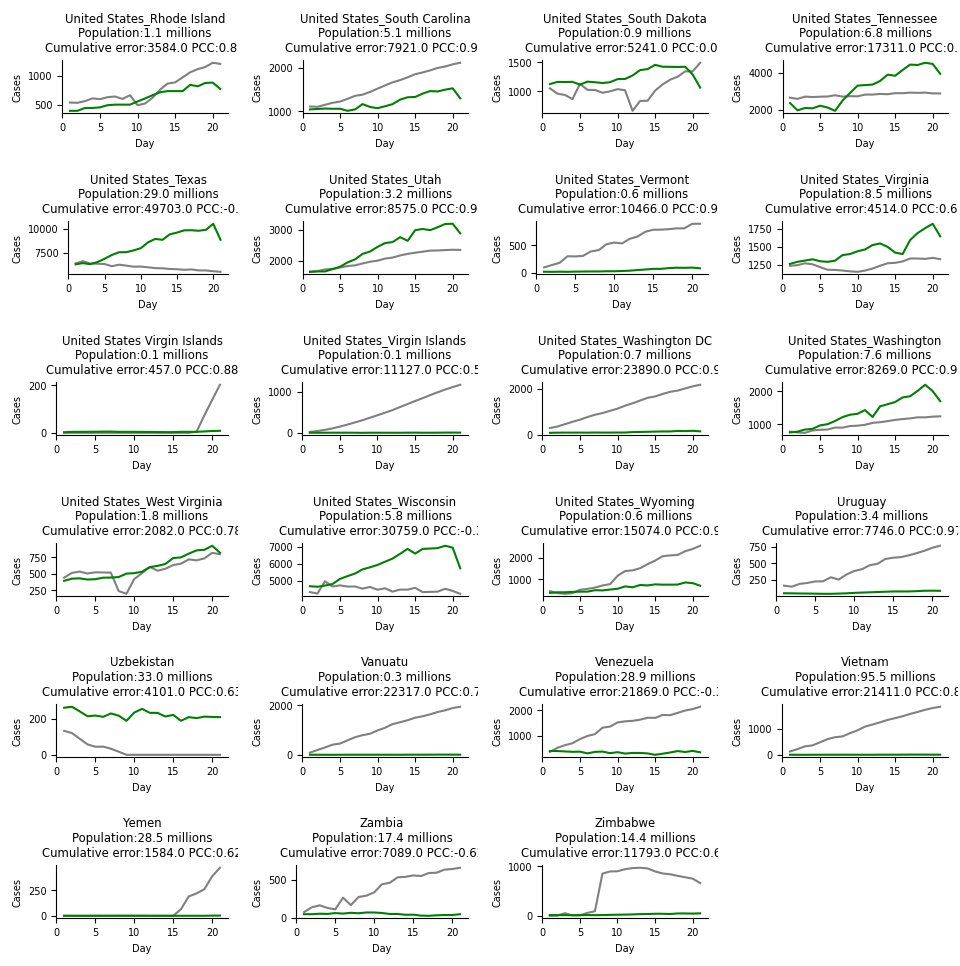
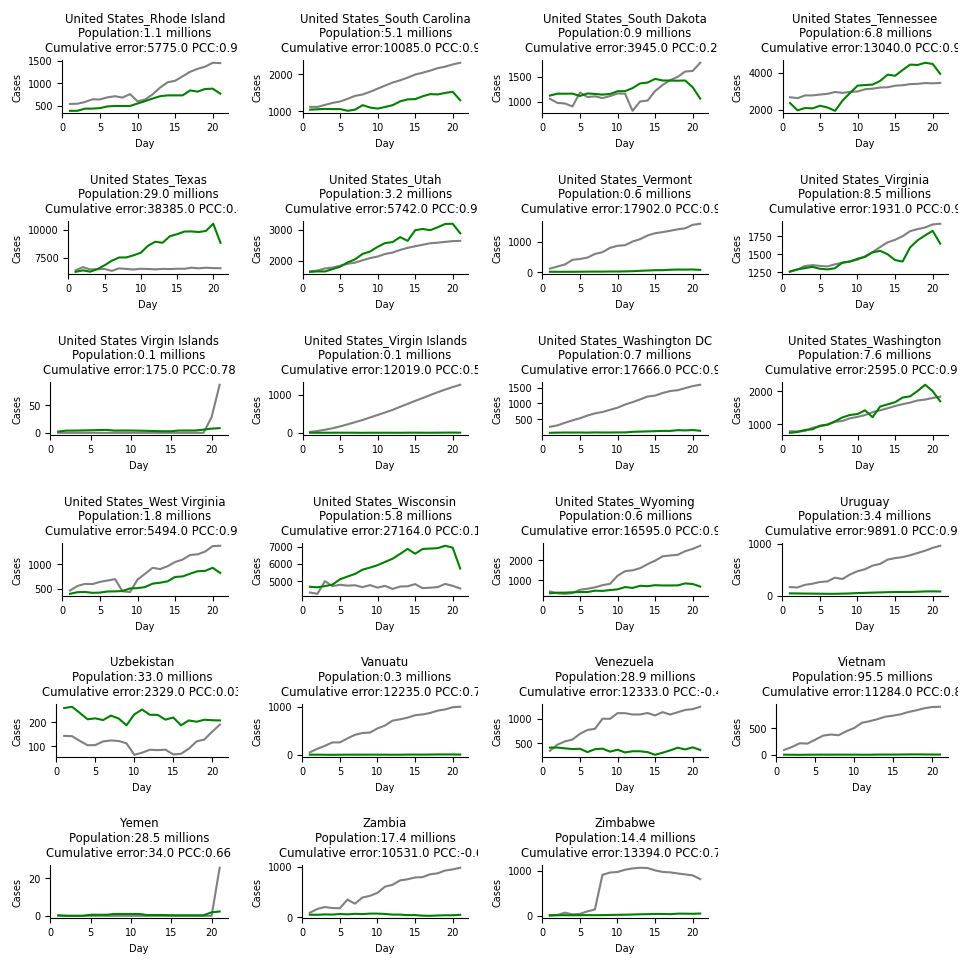
eval

diff --git a/docs/_site/Oxford_Evaluation.html b/docs/_site/Oxford_Evaluation.html
@@ -131,6 +131,18 @@
 <img src="/COVID19.github.io/assets/zen/zen-8.png" alt="zen8" />
 <img src="/COVID19.github.io/assets/zen/zen-9.png" alt="zen9" /></p>
 
+<h1 id="theil-sen-regression-per-100-000-population">Theil-Sen regression per 100 000 population</h1>
+<p><img src="/COVID19.github.io/assets/zen/zen_100000-0.png" alt="zen0" />
+<img src="/COVID19.github.io/assets/zen/zen_100000-1.png" alt="zen1" />
+<img src="/COVID19.github.io/assets/zen/zen_100000-2.png" alt="zen2" />
+<img src="/COVID19.github.io/assets/zen/zen_100000-3.png" alt="zen3" />
+<img src="/COVID19.github.io/assets/zen/zen_100000-4.png" alt="zen4" />
+<img src="/COVID19.github.io/assets/zen/zen_100000-5.png" alt="zen5" />
+<img src="/COVID19.github.io/assets/zen/zen_100000-6.png" alt="zen6" />
+<img src="/COVID19.github.io/assets/zen/zen_100000-7.png" alt="zen7" />
+<img src="/COVID19.github.io/assets/zen/zen_100000-8.png" alt="zen8" />
+<img src="/COVID19.github.io/assets/zen/zen_100000-9.png" alt="zen9" /></p>
+
   </div>
 
 </article>

diff --git a/docs/Oxford_Evaluation.md b/docs/Oxford_Evaluation.md
@@ -3,39 +3,17 @@ layout: page
 title: Oxford Evaluation
 ---
 
-# Simple least squares linear regression
-![lr0](./assets/linear/lr-0.png)
-![lr1](./assets/linear/lr-1.png)
-![lr2](./assets/linear/lr-2.png)
-![lr3](./assets/linear/lr-3.png)
-![lr4](./assets/linear/lr-4.png)
-![lr5](./assets/linear/lr-5.png)
-![lr6](./assets/linear/lr-6.png)
-![lr7](./assets/linear/lr-7.png)
-![lr8](./assets/linear/lr-8.png)
-![lr9](./assets/linear/lr-9.png)
 
-# Huber regression
-![huber0](./assets/huber/huber-0.png)
-![huber1](./assets/huber/huber-1.png)
-![huber2](./assets/huber/huber-2.png)
-![huber3](./assets/huber/huber-3.png)
-![huber4](./assets/huber/huber-4.png)
-![huber5](./assets/huber/huber-5.png)
-![huber6](./assets/huber/huber-6.png)
-![huber7](./assets/huber/huber-7.png)
-![huber8](./assets/huber/huber-8.png)
-![huber9](./assets/huber/huber-9.png)
-
-
-# Theil-Sen regression
-![zen0](./assets/zen/zen-0.png)
-![zen1](./assets/zen/zen-1.png)
-![zen2](./assets/zen/zen-2.png)
-![zen3](./assets/zen/zen-3.png)
-![zen4](./assets/zen/zen-4.png)
-![zen5](./assets/zen/zen-5.png)
-![zen6](./assets/zen/zen-6.png)
-![zen7](./assets/zen/zen-7.png)
-![zen8](./assets/zen/zen-8.png)
-![zen9](./assets/zen/zen-9.png)
+# Random forest regression per 100 000 population
+![rf0](./assets/rf/rf-0.png)
+![rf1](./assets/rf/rf-1.png)
+![rf2](./assets/rf/rf-2.png)
+![rf3](./assets/rf/rf-3.png)
+![rf4](./assets/rf/rf-4.png)
+![rf5](./assets/rf/rf-5.png)
+![rf6](./assets/rf/rf-6.png)
+![rf7](./assets/rf/rf-7.png)
+![rf8](./assets/rf/rf-8.png)
+![rf9](./assets/rf/rf-9.png)
+![rf10](./assets/rf/rf-10.png)
+![rf11](./assets/rf/rf-11.png)
